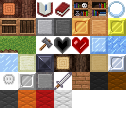
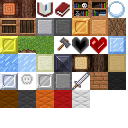
Texture fixes, added border command

diff --git a/tools/nar/atlas.js b/tools/nar/atlas.js
@@ -13,10 +13,12 @@ function Rect(x, y, w, h){
 Rect.prototype.bin = function(div) {
     let arr = new Uint16Array(4);
 
-    arr[0] = (this.x + 1) / div * 0xFFFF;
-    arr[1] = (this.y + 1) / div * 0xFFFF;
-    arr[2] = (this.x + this.w - 1) / div * 0xFFFF;
-    arr[3] = (this.y + this.h - 1) / div * 0xFFFF;
+    let border = this.border || 1;
+
+    arr[0] = (this.x + border) / div * 0xFFFF;
+    arr[1] = (this.y + border) / div * 0xFFFF;
+    arr[2] = (this.x + this.w - border) / div * 0xFFFF;
+    arr[3] = (this.y + this.h - border) / div * 0xFFFF;
     
     return Buffer.from(arr.buffer);
 }
@@ -80,14 +82,16 @@ async function Process(cmd){
     if(!cmd.path)
         return console.log(`ERROR: No path given in command ${cmd}`);
 
+    let border = Number(cmd.border) || 1;
     let rects = [];
 
     for(let path of glob.sync(cmd.path)){
         let image = await canvas.loadImage(path);
     
-        let rect = new Rect(0, 0, image.width + 2, image.height + 2);
+        let rect = new Rect(0, 0, image.width + border * 2, image.height + border * 2);
         rect.image = image;
         rect.path = path;
+        rect.border = border;
 
         rects.push(rect);
     }
@@ -98,7 +102,7 @@ async function Process(cmd){
 
     for(let rect of rects){
         ctx.drawImage(rect.image, rect.x, rect.y, rect.w, rect.h);
-        ctx.drawImage(rect.image, rect.x + 1, rect.y + 1, rect.w - 2, rect.h - 2);
+        ctx.drawImage(rect.image, rect.x + border, rect.y + border, rect.w - border * 2, rect.h - border * 2);
     }
 
     let buffer = cvs.toBuffer('image/png');

diff --git a/src/voxel/voxels.c b/src/voxel/voxels.c
@@ -185,11 +185,12 @@ void Chunk_Generate(Chunk* c){
         int cz = z + c->y * 16.0f;
 
         float simplex = snoise2(cx / 64.0f, cz / 64.0f);
+        float simplex2 = snoise2(cz / 64.0f, cx / 64.0f);
 
         c->blocks[id] = BLOCK_AIR;
 
         if(y < 5 + simplex * 4)
-            c->blocks[id] = BLOCK_STONE;
+            c->blocks[id] = y < (5 + simplex2 * 4) ? BLOCK_DIRT : BLOCK_GRASS;
     }
 }
 
@@ -222,7 +223,7 @@ void Chunk_RefreshMesh(Chunk* chunk){
                 const int* rect = cube_rects[s][v];
                 const int* uv = uv_table[s][v];
 
-                ushort* uvs = (ushort*)NAR_VOXEL_ATLAS_UVS + sizeof(short) * 4 * voxels[block].image;
+                ushort* uvs = (ushort*)NAR_VOXEL_ATLAS_UVS + sizeof(short) * 2 * voxels[block].image;
 
                 FOR(3) vert->pos[iter] = rect[iter] + coord[iter];
                 FOR(2) vert->uv[iter] = uvs[uv[iter] * 2 + iter];

diff --git a/inc/ext/pack_nar.h b/inc/ext/pack_nar.h
@@ -1,8 +1,8 @@
 extern char* resources;
 
 #define NAR_VOXEL_ATLAS (resources + 4)
-#define NAR_VOXEL_ATLAS_UVS (resources + 20006)
-#define NAR_VPASS_VERT (resources + 20322)
-#define NAR_VPASS_FRAG (resources + 20622)
-#define NAR_VOXEL_VERT (resources + 20780)
-#define NAR_VOXEL_FRAG (resources + 21439)
+#define NAR_VOXEL_ATLAS_UVS (resources + 21061)
+#define NAR_VPASS_VERT (resources + 21385)
+#define NAR_VPASS_FRAG (resources + 21685)
+#define NAR_VOXEL_VERT (resources + 21843)
+#define NAR_VOXEL_FRAG (resources + 22502)

diff --git a/src/voxel/types.c b/src/voxel/types.c
@@ -2,6 +2,8 @@
 #include <voxel/types.h>
 
 Voxel voxels[] = {
-    { 0, 0 },                       //AIR
-    { 6, 0 }         //STONE
+    { 0, 0 }, //AIR
+    { 9, 0 }, //STONE
+    { 16, 0 }, //GRASS
+    { 13, 0}, //DIRT
 };

diff --git a/inc/voxel/types.h b/inc/voxel/types.h
@@ -5,6 +5,8 @@ typedef struct Voxel{
 } Voxel;
 
 #define BLOCK_AIR 0
-#define BLOCK_STONE 1 
+#define BLOCK_STONE 1
+#define BLOCK_GRASS 2
+#define BLOCK_DIRT 3
 
 extern Voxel voxels[];
